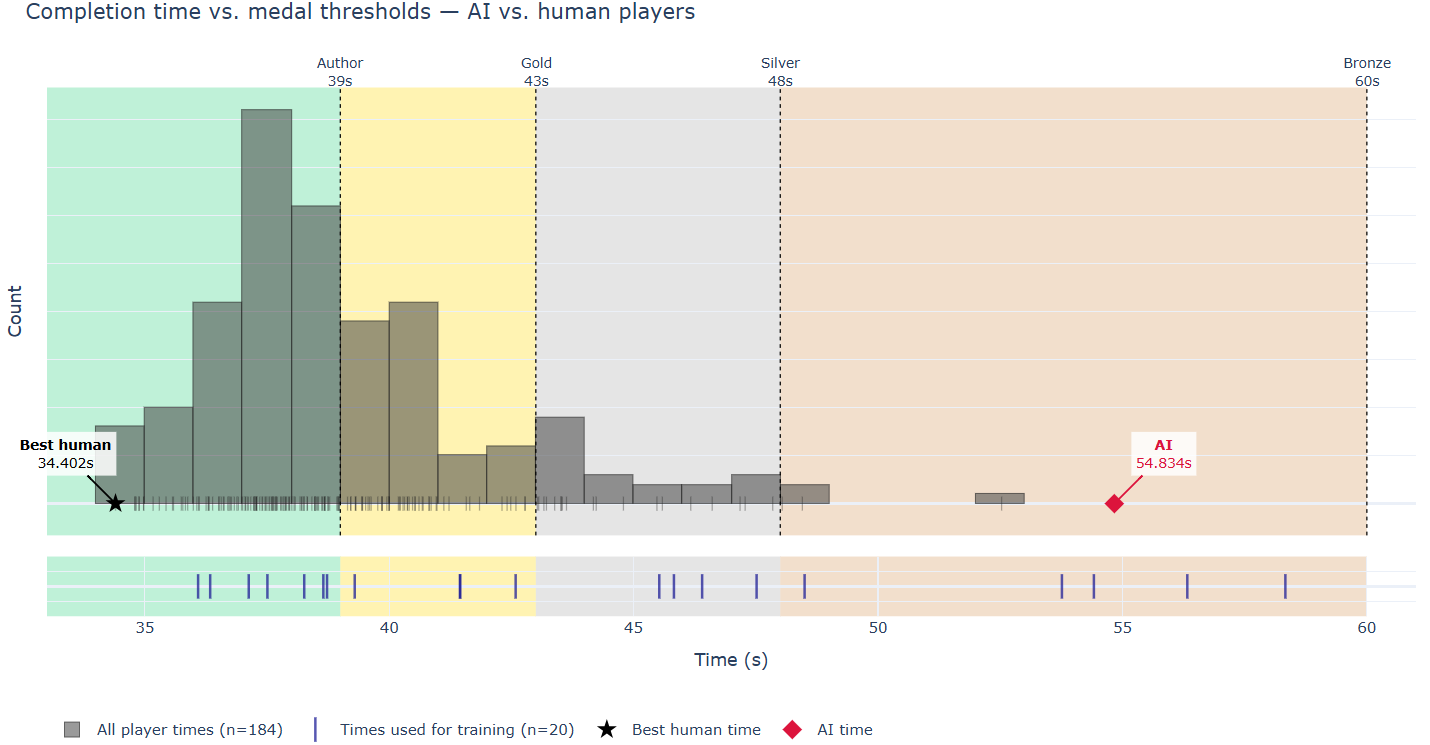
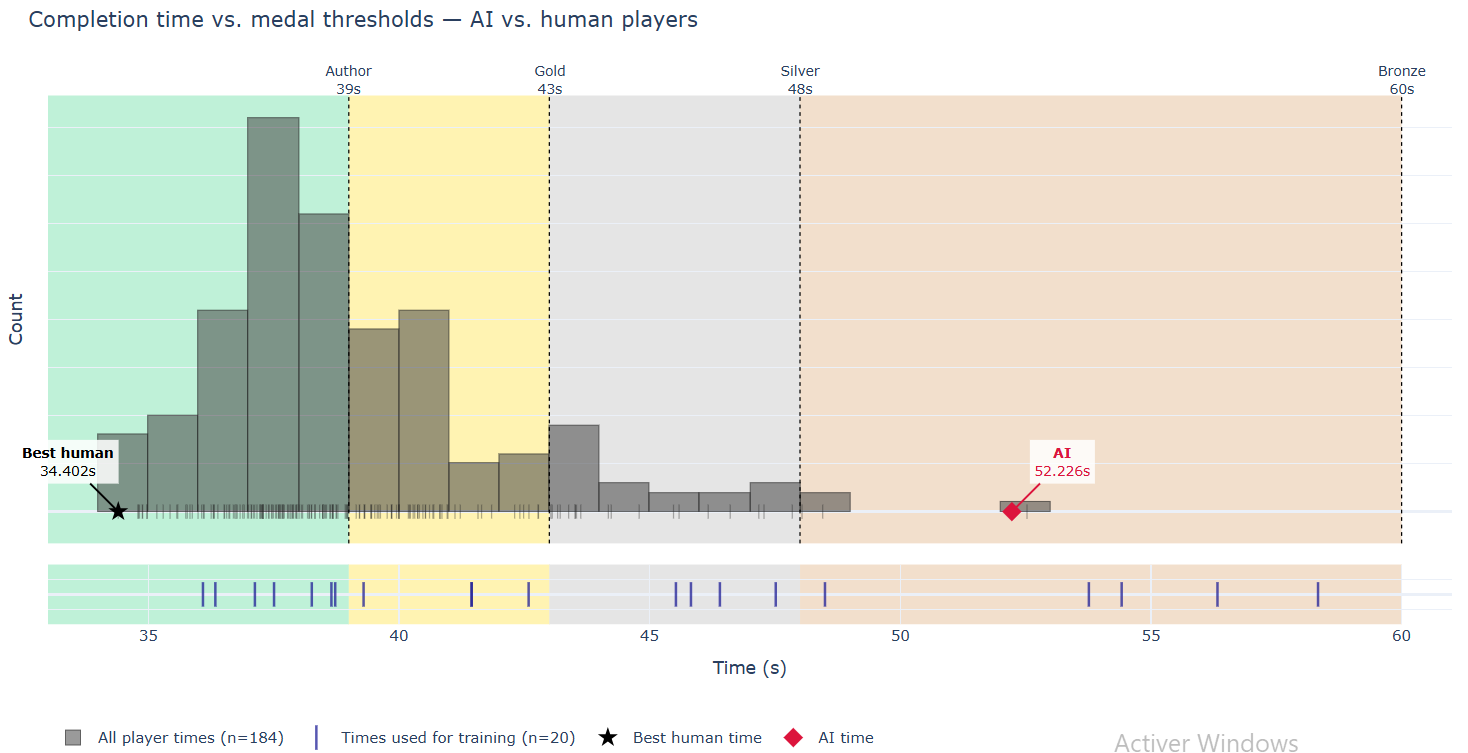
fix: AI completion time

diff --git a/README.md b/README.md
@@ -93,7 +93,7 @@ The agent completes the full track, driving entirely through planning over the l
 
 ![Completion plot](assets/completion_time_distribution.png)
 
-Completion time is around 54s, against an author medal of 39s and top human times near 34s. This is roughly beginner-level and is not competitive with per-map RL agents, which is expected and not the objective.
+Completion time is around 52s, against an author medal of 39s and top human times near 34s. This is roughly beginner-level and is not competitive with per-map RL agents, which is expected and not the objective.
 
 ![Rollout divergence up to 100 steps](assets/rollout_divergence_100_steps.png)
 ![Rollout divergence up to 500 steps](assets/rollout_divergence_500_steps.png)
@@ -107,7 +107,7 @@ Mean position error grows from 0.0145m at K = 1 to 0.385m at K = 32 in a super-l
 
 - **One map.** No cross-map training and no cross-map evaluation. This means; 1 style, 1 geometry, only two surfaces (road and dirt), no behavioral modificator (like engine off or no steering), one car (stadium) out of the 4; out of a very rich set.
 - **A hand-specified line.** Planning is guided by a hand-specified centerline reward. There is no policy training and no reward shaping during model training, but the *planner* is task-engineered, and a substantial part of "knowing where to go" is supplied rather than learned. Replacing it is the main phase-2 objective.
-- **Times are slow.** Completion is around 54 seconds against an author medal of 39 seconds, and best times around 34 seconds.
+- **Times are slow.** Completion is around 52 seconds against an author medal of 39 seconds, and best times around 34 seconds.
 - **No puzzle/hard tracks.** Everything above is a conventional racing track, and arguably a very simple one.
 
 ## Next steps and open questions
